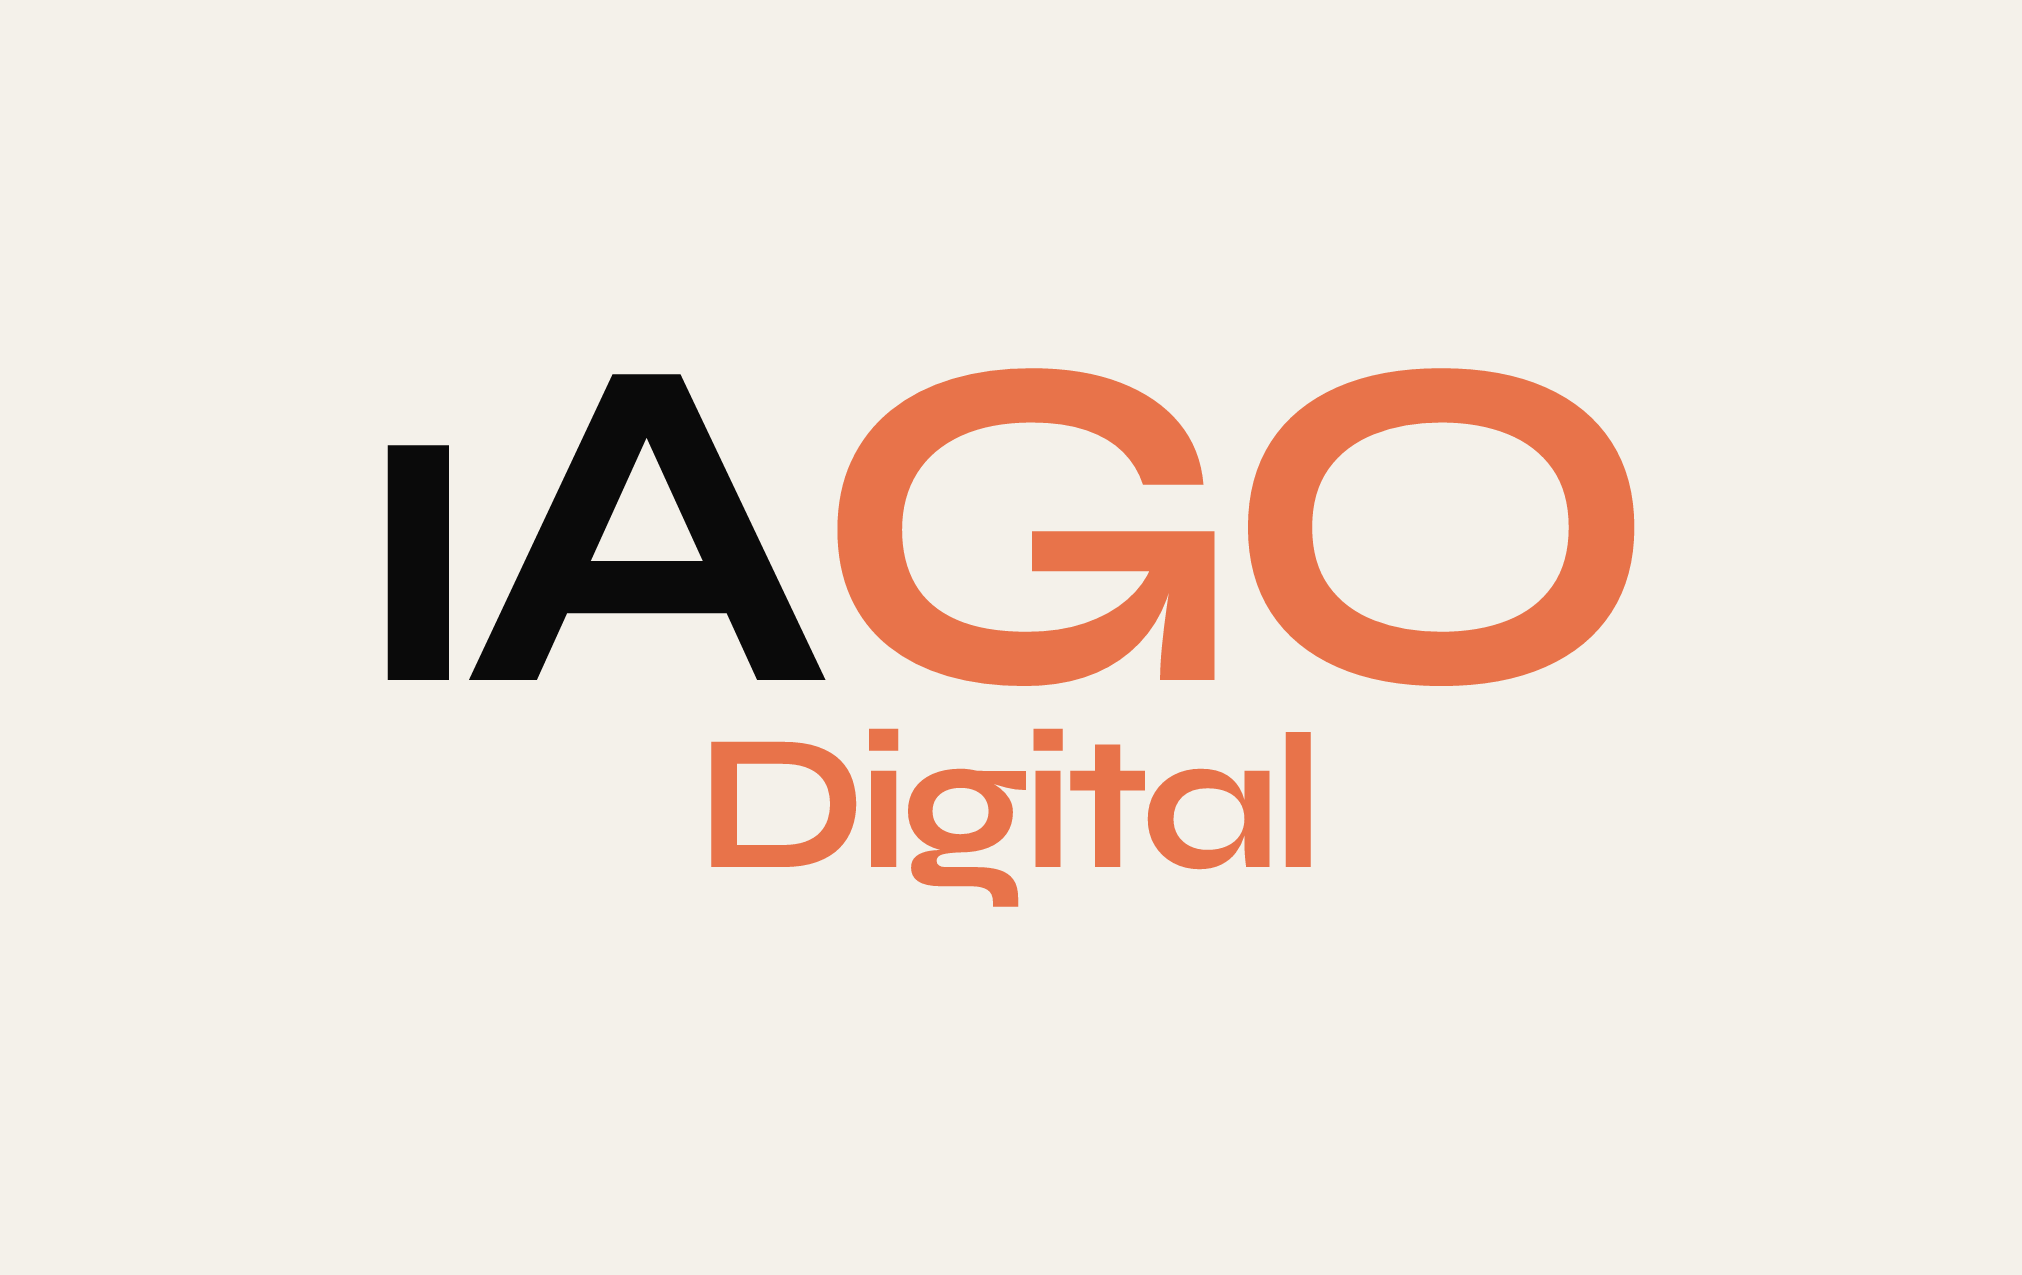
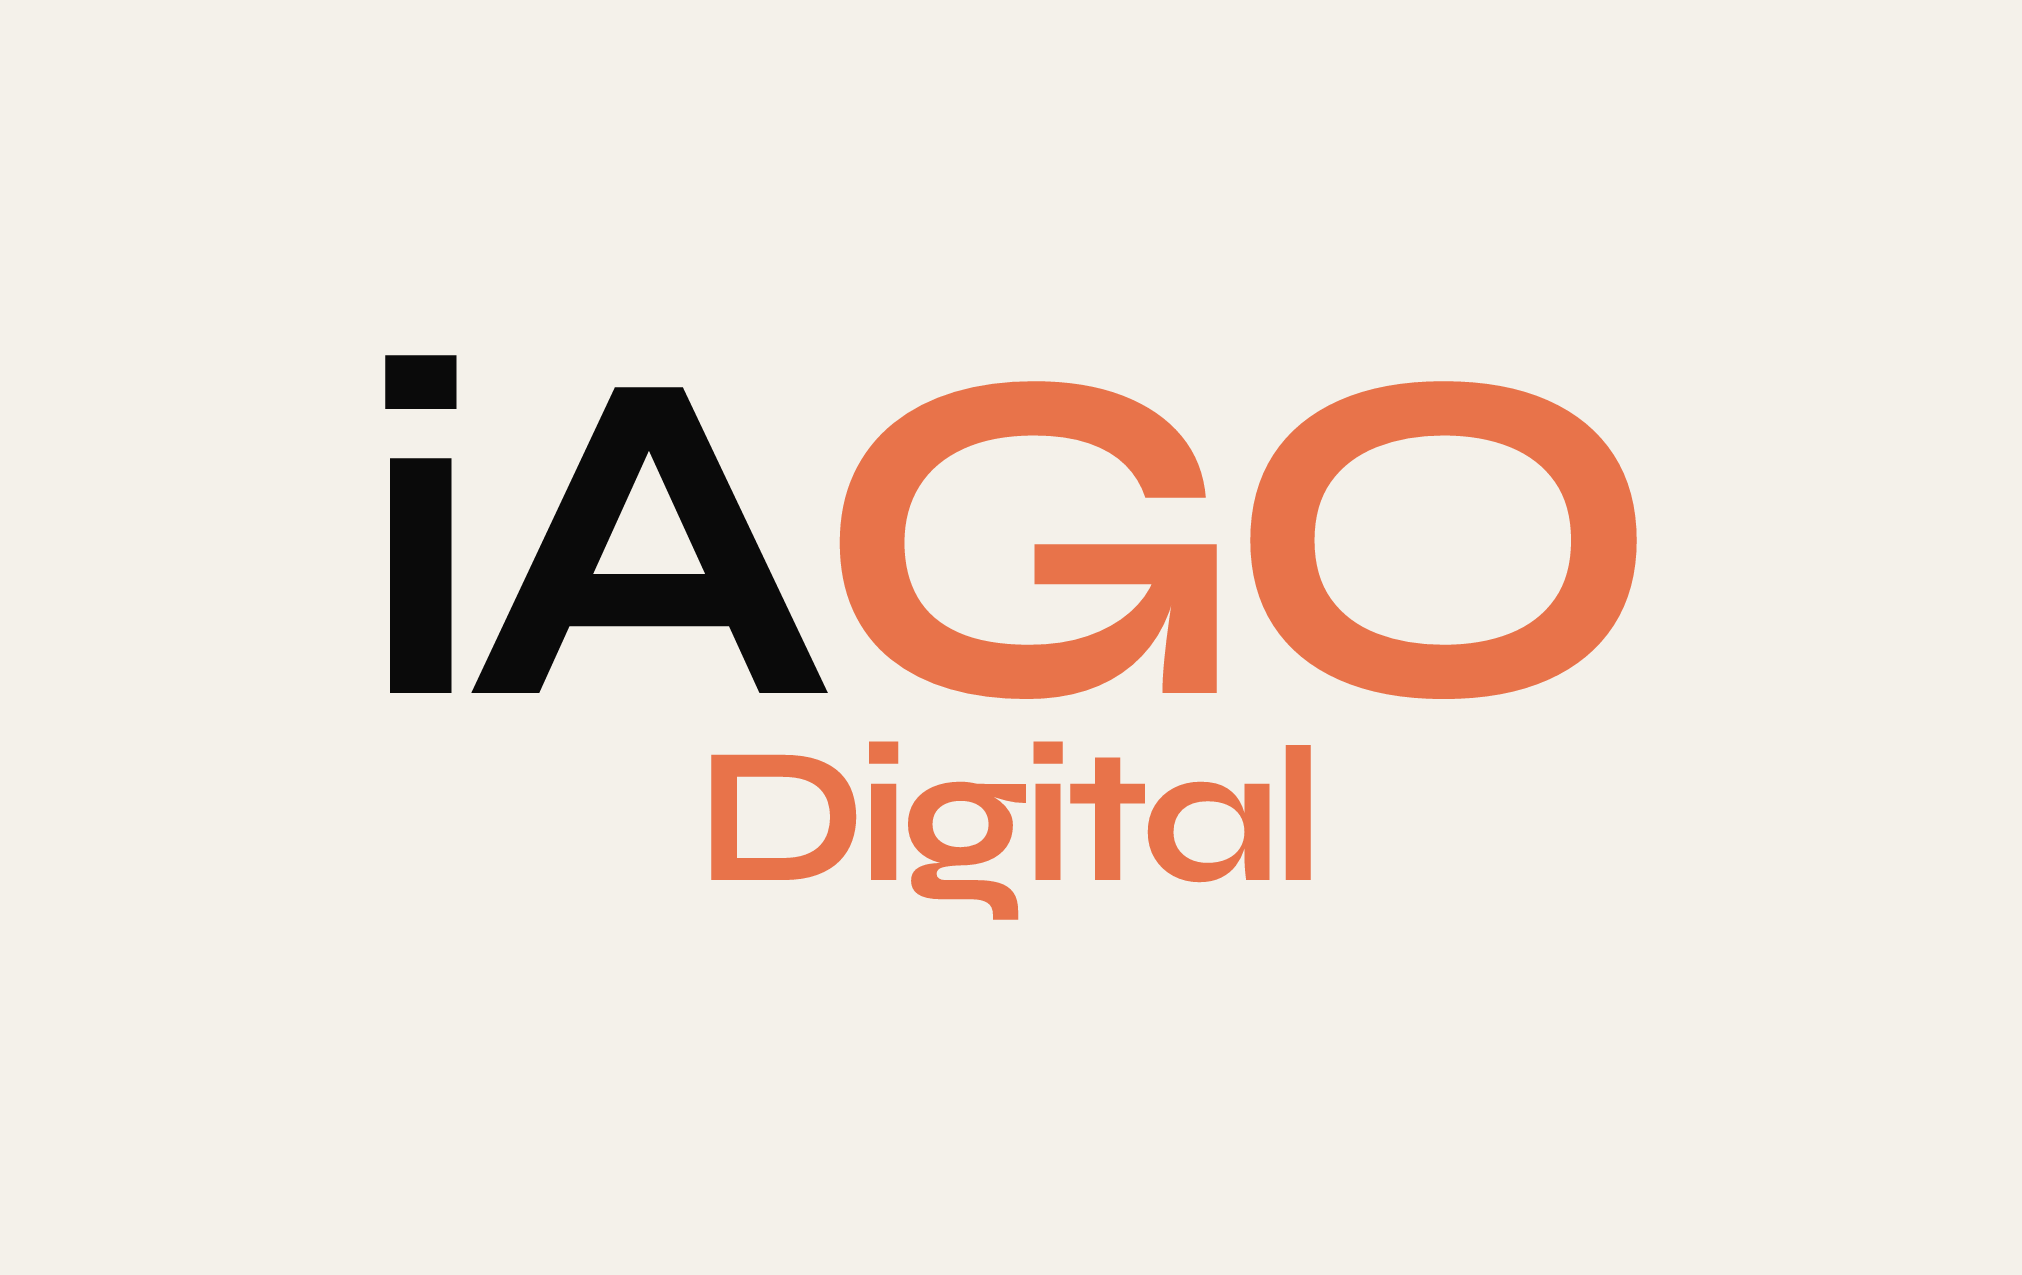
Add a white NFC-size PNG with the dotted iAGO wordmark
Restore the i tittle and export an opaque white 85.60 x 53.98 mm card face at 600 DPI.

diff --git a/scripts/export-nfc-logo.py b/scripts/export-nfc-logo.py
@@ -18,7 +18,6 @@ from dataclasses import dataclass
 from pathlib import Path
 
 from fontTools.misc.transform import Transform
-from fontTools.pens.recordingPen import RecordingPen
 from fontTools.pens.svgPathPen import SVGPathPen
 from fontTools.pens.transformPen import TransformPen
 from fontTools.ttLib import TTFont
@@ -27,6 +26,7 @@ from fontTools.varLib.instancer import instantiateVariableFont
 INK = "#0A0A0A"
 CORAL = "#E8734A"
 BONE = "#F4F1EA"
+WHITE = "#FFFFFF"
 
 # Tailwind tracking-tightest on the site wordmark.
 TRACKING_EM = -0.045
@@ -71,60 +71,16 @@ def load_syne_bold(cache_dir: Path) -> TTFont:
     return TTFont(bold_path)
 
 
-def split_contours(recording: list) -> list[list]:
-    contours: list[list] = []
-    current: list = []
-    for op, args in recording:
-        current.append((op, args))
-        if op in ("closePath", "endPath"):
-            contours.append(current)
-            current = []
-    if current:
-        contours.append(current)
-    return contours
-
-
-def contour_ymax(contour: list) -> float:
-    ys = []
-    for _op, args in contour:
-        for point in args:
-            if isinstance(point, tuple) and len(point) >= 2:
-                ys.append(point[1])
-    return max(ys) if ys else float("-inf")
-
-
-def stem_recording(glyph_set, name: str, drop_tittle: bool) -> list:
-    rec = RecordingPen()
-    glyph_set[name].draw(rec)
-    if not drop_tittle:
-        return rec.value
-    contours = split_contours(rec.value)
-    if len(contours) < 2:
-        return rec.value
-    tittle = max(range(len(contours)), key=lambda i: contour_ymax(contours[i]))
-    kept = []
-    for index, contour in enumerate(contours):
-        if index != tittle:
-            kept.extend(contour)
-    return kept
-
-
-def recording_bounds(recording: list) -> tuple[float, float, float, float]:
-    xs: list[float] = []
-    ys: list[float] = []
-    for _op, args in recording:
-        for point in args:
-            if isinstance(point, tuple) and len(point) >= 2:
-                xs.append(point[0])
-                ys.append(point[1])
-    if not xs:
+def glyph_bounds(font: TTFont, name: str) -> tuple[float, float, float, float]:
+    glyph = font["glyf"][name]
+    if glyph.numberOfContours == 0 or glyph.xMin is None:
         return (0.0, 0.0, 0.0, 0.0)
-    return (min(xs), min(ys), max(xs), max(ys))
-
-
-def replay(recording: list, pen) -> None:
-    for op, args in recording:
-        getattr(pen, op)(*args)
+    return (
+        float(glyph.xMin),
+        float(glyph.yMin),
+        float(glyph.xMax),
+        float(glyph.yMax),
+    )
 
 
 def layout_word(
@@ -135,7 +91,6 @@ def layout_word(
     baseline_y: float,
     color_for,
     tracking_em: float = TRACKING_EM,
-    drop_i_tittle: bool = False,
 ) -> list[PlacedGlyph]:
     glyph_set = font.getGlyphSet()
     cmap = font.getBestCmap()
@@ -151,16 +106,14 @@ def layout_word(
             continue
         name = cmap[ord(char)]
         glyph = glyph_set[name]
-        drop_tittle = drop_i_tittle and char == "i"
-        recording = stem_recording(glyph_set, name, drop_tittle)
-        xmin, ymin, xmax, ymax = recording_bounds(recording)
+        xmin, ymin, xmax, ymax = glyph_bounds(font, name)
         advance = glyph.width * scale
-        if not recording:
+        if font["glyf"][name].numberOfContours == 0:
             x += advance
             continue
         pen = SVGPathPen(glyph_set)
         transform = Transform().translate(x, baseline_y).scale(scale, -scale)
-        replay(recording, TransformPen(pen, transform))
+        glyph.draw(TransformPen(pen, transform))
         placed.append(
             PlacedGlyph(
                 char=char,
@@ -240,9 +193,7 @@ def wordmark_glyphs(
     iago_color,
     digital_color: str,
 ) -> list[PlacedGlyph]:
-    iago = layout_word(
-        font, "iAGO", iago_size, 0, 0, iago_color, drop_i_tittle=True
-    )
+    iago = layout_word(font, "iAGO", iago_size, 0, 0, iago_color)
     digital_probe = layout_word(
         font, "Digital", digital_size, 0, 0, lambda _ch: digital_color
     )
@@ -372,6 +323,10 @@ def main() -> int:
         build_card_svg(font, BONE, INK, CORAL),
     )
     write_svg(
+        OUT_DIR / "iago-nfc-tarjeta-fondo-blanco.svg",
+        build_card_svg(font, WHITE, INK, CORAL),
+    )
+    write_svg(
         OUT_DIR / "nfc-card-front-dark-bleed.svg",
         build_card_svg(font, INK, BONE, CORAL, bleed=BLEED_MM),
     )
@@ -441,6 +396,16 @@ def main() -> int:
         OUT_DIR / "nfc-card-front-light.svg",
         OUT_DIR / "nfc-card-front-light-600dpi.png",
         mm_to_px(CARD_W_MM, 600),
+    )
+    rasterize(
+        OUT_DIR / "iago-nfc-tarjeta-fondo-blanco.svg",
+        OUT_DIR / "iago-nfc-tarjeta-fondo-blanco.png",
+        mm_to_px(CARD_W_MM, 600),
+    )
+    rasterize(
+        OUT_DIR / "iago-nfc-tarjeta-fondo-blanco.svg",
+        OUT_DIR / "iago-nfc-tarjeta-fondo-blanco-300dpi.png",
+        mm_to_px(CARD_W_MM, 300),
     )
     rasterize(
         OUT_DIR / "nfc-card-front-dark-bleed.svg",
